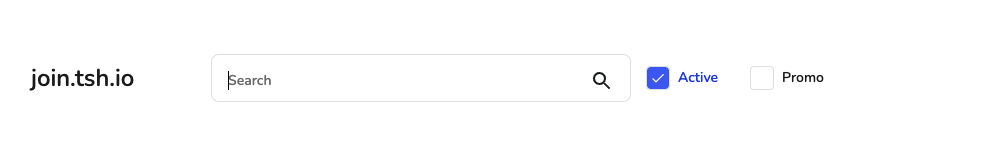
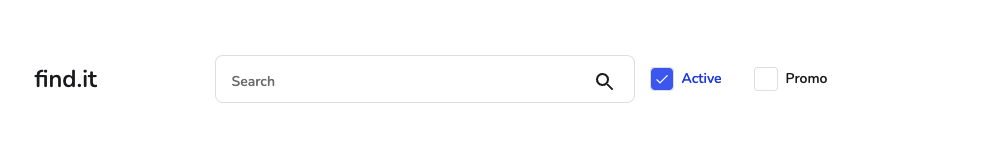
updates

diff --git a/src/app/components/Login/Login.tsx b/src/app/components/Login/Login.tsx
@@ -10,7 +10,7 @@ export const Login = () => {
     <div className='login__wrapper login'>
       <div className='login__photo'></div>
       <div className='login__content'>
-        <h2 className='login__logo'>join.tsh.io</h2>
+        <h2 className='login__logo'>find.it</h2>
         <div className='login__login-form-wrapper'>
           <h2 className='login__title'>Login</h2>
           <form className='login__login-form login-form'>

diff --git a/src/app/components/Logo/Logo.tsx b/src/app/components/Logo/Logo.tsx
@@ -6,7 +6,7 @@ const Logo = () => {
     <div className='header__logo-container'>
       <h1 className='header__logo-title'>
         <a className='header__logo-link' href=''>
-          join.tsh.io
+          find.it
         </a>
       </h1>
     </div>

diff --git a/README.md b/README.md
@@ -1,4 +1,4 @@
-# React Product App Task
+# React Product App
 
 ![project](./public/project.png)
 
